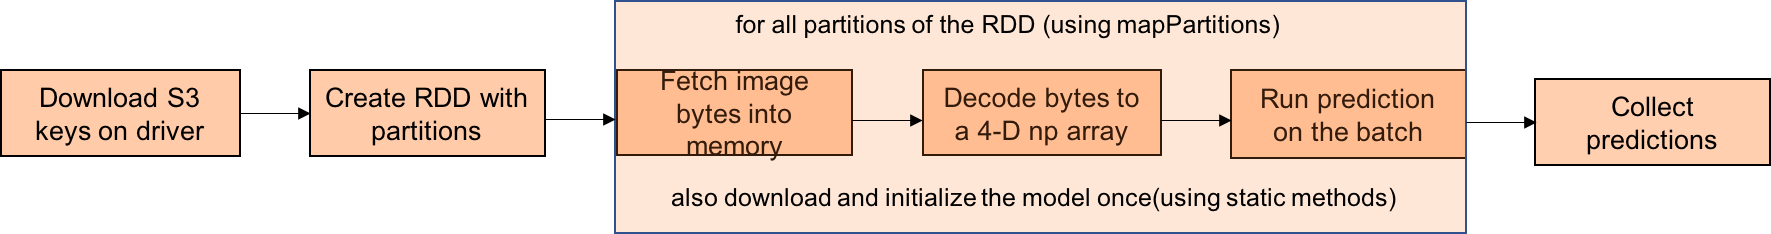
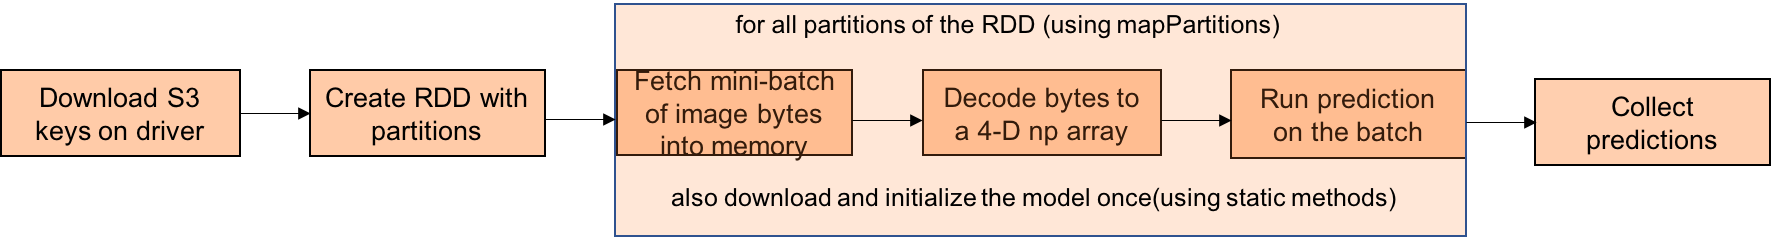
Update documentation (#5)

diff --git a/mxnet-spark/infer_main.py b/mxnet-spark/infer_main.py
@@ -93,16 +93,17 @@ def main():
 
     output = rdd.collect()
 
-    # drop the extra keys that we added to fill the last batch to be of args['batch']
+    # drop the extra keys that we added to fill the last batch
 
+    keys = keys[:n_keys]
     output = output[:n_keys]
 
     logger.info("predictions: {}".format(output))
 
     if args['output_s3_key'] and args['output_s3_bucket']:
         with open('/tmp/' + args['output_s3_key'] , 'w+') as f:
-            for each in output:
-                f.write("%s\n" % each)
+            for k, o in zip(keys, output):
+                f.write("Key %s: Prediction: %s\n" % (k, o))
         upload_file(args['output_s3_bucket'], args['output_s3_key'], '/tmp/' + args['output_s3_key'], s3_client)
 
 if __name__ == '__main__':

diff --git a/mxnet-spark/README.md b/mxnet-spark/README.md
@@ -1,15 +1,15 @@
-# Distributed Offline Inference using Apache MXNet and Apache Spark on Amazon EMR
+# Distributed Inference using Apache MXNet and Apache Spark on Amazon EMR
 
 In this article we will demonstrate how to run distributed offline inference on large datasets using [Aapche MXNet](http://mxnet.apache.org/) (incubating) and [Apache Spark](https://spark.apache.org/) on [Amazon EMR](https://aws.amazon.com/emr/) platform. We will explain how offline inference is useful, why it is challenging, and how you can leverage MXNet and Spark on Amazon EMR to overcome this challenge.
 
 ## Distributed Inference on Large Datasets - Need and Challenges
 
-Once a deep learning model has been trained, it is put to work by running inference on new data. Inference may be executed in real-time, for tasks that require immediate feedback such as fraud detection. This is typically known as online inference. Alternatively, inference may be executed offline, when a pre-computation is useful. A common use case for offline inference are services with low-latency requirements such as recommender systems. In these cases, recommendations are pre-computed using offline inference, results are stored in low latency storage, and on demand, recommendations are served from storage. 
+Once a deep learning model has been trained, it is put to work by running inference on new data. Inference may be executed in real-time, for tasks that require immediate feedback such as fraud detection. This is typically known as online inference. Alternatively, inference may be executed offline, when a pre-computation is useful. A common use case for offline inference are services with low-latency requirements such as recommender systems  that requires sorting and ranking many user-product scores. In these cases, recommendations  that requires sorting and ranking many user-product scoresare pre-computed using offline inference, results are stored in low latency storage, and on demand, recommendations are served from storage. 
 Backfilling historic data with predictions generated from state of the art models is another use case. As a hypothetical example, NY Times could use this setup to backfill archived photographs with person names predicated from a person detection model. Distributed inference can also be used for testing new models on historical data to verify if they yield better results before deploying to production.
 
 Typically, distributed inference is performed on large scale datasets spanning millions of records or more.
 Processing such massive datasets within a reasonable amount of time require a cluster of machines set up with deep learning capabilities.
-A distributed cluster enables high throughput processing via data partitioning and task parallelization. However, setting up a deep learning data processing cluster comes with challenges:
+A distributed cluster enables high throughput processing via data partitioning, batching and task parallelization. However, setting up a deep learning data processing cluster comes with challenges:
 * **Cluster Setup and Management**: Setting up and monitoring nodes, maintaining high availability, deploying and configuring software packages, and more.
 * **Resource and Job Management**: Scheduling and tracking jobs, partitioning data and handling job failures.
 * **Deep learning setup**: deploying, configuring and running deep learning tasks.
@@ -26,6 +26,7 @@ MXNet is a fast and scalable deep learning framework that is optimized for perfo
 We will walk through the steps to setup and execute offline distributed inference on a large dataset, using Spark and MXNet on Amazon EMR. We will use a pre-trained [ResNet-18](http://data.mxnet.io/models/imagenet/resnet/18-layers/) image recognition model, available on the MXNet [model zoo](http://data.mxnet.io/models/). We will run inference against the publicly available CIFAR-10 dataset that contains 60,000 color images. The example will demonstrate running inference on CPUs, but one can easily extended to use GPUs.
 
 The high level steps for the setup and execution are listed below, and laid out in detail in the following sections:
+
 * Setup MXNet and Spark on EMR.
 * Initialize Spark application.
 * Load and partition data on the cluster.
@@ -53,6 +54,7 @@ InstanceGroupType=CORE,InstanceCount=4,InstanceType=c4.8xlarge \
 --name "mxnet-spark-demo"
 ```
 Substitute the below arguments:
+
 * `<YOUR-KEYPAIR>` - Your EC2 Key Pair to ssh into the master.
 * `<YOUR-SUBNET-ID>` - Subnet in which to launch the cluster, you have to pass this argument to create high compute instances such c4.8xlarge
 * `<AWS-REGION>` - AWS region where you want to launch the cluster
@@ -60,7 +62,13 @@ Substitute the below arguments:
 
 `--bootstrap-actions` is used to install git, pillow, boto libraries.
 
-The code snippets that we discuss below are available in [deeplearning-emr](https://github.com/awslabs/deeplearning-emr) Github repository under the `mxnet-spark` folder. It contains the complete code for running inference using MXNet and Spark. We will also discuss how to submit spark application using `spark-submit` in one of the sub-sections.
+You can find more information about IAM roles needed to setup a EMR cluster [here](http://docs.aws.amazon.com/emr/latest/ManagementGuide/emr-iam-roles-creatingroles.html)
+
+The code snippets that we discuss below are available in [deeplearning-emr](https://github.com/awslabs/deeplearning-emr) Github repository under the `mxnet-spark` folder. It contains the complete code for running inference using MXNet and Spark. We will also discuss how to submit spark application using `spark-submit` in one of the sub-sections below. The `mxnet-spark` folder contains 3 files,  
+ 
+* [infer_main.py](https://github.com/awslabs/deeplearning-emr/mxnet-spark/infer_main.py) contains the code to run on the driver, 
+* [utils.py](https://github.com/awslabs/deeplearning-emr/mxnet-spark/utils.py) contains a few helper methods, and 
+* [mxinfer.py](https://github.com/awslabs/deeplearning-emr/mxnet-spark/mxinfer.py) contains the code to download the model files on the worker nodes, Load bytes into numpy and run prediction on a batch of images.
 
 ### Initialization.
 We will use [PySpark](https://spark.apache.org/docs/0.9.0/python-programming-guide.html) - Spark's Python interface, to create our application. A Spark application consists of a single **driver** program that runs the user's main function and one or more **executor** processes that run various tasks in parallel.
@@ -68,13 +76,14 @@ We will use [PySpark](https://spark.apache.org/docs/0.9.0/python-programming-gui
 To execute a Spark application, the driver splits up the work into jobs. Each job is further split into stages and each stage consists of a set of independent tasks that run in parallel. A task is the smallest unit of work in Spark and executes the same code, each on a different data partition - logical chunk of a large distributed data set.
 
 ![Spark Cluster](https://spark.apache.org/docs/latest/img/cluster-overview.png)
+
 **Image Credit:** [Apache Spark Docs](https://spark.apache.org/docs/latest/cluster-overview.html)
 
 Spark provides an abstraction to work with a distributed dataset - Resilient Distributed Dataset(RDD). RDD is an immutable distributed collection of objects partitioned across the cluster that can be operated on in parallel. RDDs can be created either by parallelizing a collection or an external dataset.
 
 The pipeline of our distributed inference application at a high level looks like:
 
-![Application Pipeline](resources/pipeline.png)
+![pipeline.png](resources/pipeline.png)
 
 Spark by default creates one task per core on the executor. Since MXNet has built-in parallelism to efficiently use all the CPU cores, we'll configure our application to create only one task per executor and let MXNet all the cores on the instance.
 In the below code we will set the configuration key `spark.executor.cores` to `1`, and pass the `conf` object when creating `SparkContext`. When submitting the application, you'll see that we also set the number of executors to the number of workers available on the cluster, there by forcing one executor per node instead of using the default setting for dynamic allocation of executors.
@@ -89,7 +98,7 @@ logger.info("Spark Context created")
 
 ### Load and partition data on the cluster.
 We have already copied CIFAR-10 data into a [Amazon S3](https://aws.amazon.com/s3/) bucket `mxnet-spark-demo`. Since the data stored in S3, can be accessed on all nodes we do not have to move data between the driver and executors. We will fetch only the S3 keys on the driver and create an RDD of keys using the [boto](http://boto.cloudhackers.com/en/latest/) library - Python interface to access AWS Services. 
-This RDD will be partitioned and distributed to the executors in the cluster and we will fetch and process the images directly on the executors.
+This RDD will be partitioned and distributed to the executors in the cluster and we will fetch and process the mini-batch of images directly on the executors.
 
 We will use the helper method ```fetch_s3_keys``` from [utils.py](https://github.com/awslabs/deeplearning-emr/mxnet-spark/utils.py) to get all the keys from an S3 bucket, this method also takes a prefix to list keys that start with that prefix. The arguments are passed when you submit the main application.
 
@@ -98,9 +107,9 @@ s3_client = get_s3client(args['access_key'], args['secret_key'])
 keys = fetch_s3_keys(args['bucket'], args['prefix'], s3_client)
 ```
 
-The batch size as determined by `args['batch']` is the number of images that can be fetched, preprocessed and run inference on each executor at once. This is bound by how much memory is available for each task. `args['access_key']` and  `args['secret_key']` are optional arguments to access the S3 bucket in another account if Instance Role is setup with the right permissions the script will  automatically use the IAM role.
+The batch size as determined by `args['batch']` is the number of images that can be fetched, preprocessed and run inference on each executor at once. This is bound by how much memory is available for each task. `args['access_key']` and  `args['secret_key']` are optional arguments to access the S3 bucket in another account if Instance Role is setup with the right permissions the script will  automatically use the IAM role that was assigned to the cluster at launch.
 
-We will split the RDD of `keys` into partitions with each partition containing a batch of image keys. If the keys cannot be perfectly divided into partitions of batch size, we will fill the last partition to reuse some of the initial set of keys. This is needed since we will be binding(see below) to a fixed batch size.
+We will split the RDD of `keys` into partitions with each partition containing a mini-batch of image keys. If the keys cannot be perfectly divided into partitions of batch size, we will fill the last partition to reuse some of the initial set of keys. This is needed since we will be binding(see below) to a fixed batch size.
 
 
 ```Python
@@ -180,7 +189,7 @@ def readImage(img_bytes):
 ### Inference using MXNet on the Executors
 As stated above we will be running one executor per node and one task per executor for this application. 
 
-Before running inference, we have to load the model files.The `MXModel` class in [mxinfer.py](https://github.com/awslabs/deeplearning-emr/mxnet-spark/mxinfer.py) downloads the model files and creates a MXNet Module and stores in the `MXModel` class at first use. We implemented a singleton pattern so that we do not have to instantiate and load the model for every preidiction.
+Before running inference, we have to load the model files.The `MXModel` class in [mxinfer.py](https://github.com/awslabs/deeplearning-emr/mxnet-spark/mxinfer.py) downloads the model files from MXNet model zoo and creates a MXNet Module and stores in the `MXModel` class at first use. We implemented a singleton pattern so that we do not have to instantiate and load the model for every preidiction.
 
 The  `download_model_files` method in the MXModel singleton class will download the ResNet-18 model files. The model consists of a Symbol file with .json extension that describes the neural network graph and a binary file with .params extension containing the model parameters. For classification models, there will be a synsets.txt containing the classes and their corresponding labels.
 
@@ -222,7 +231,7 @@ After downloading the model files, we will load them and instantiate MXNet modul
         return mod
 ```
 
-We will download and instantiate MXModel object once on the first call to the predict method. The predict transformation method also takes a 4-dimensional array holding a batch (of size `args['batch']`) of images and calls the MXNet module `forward` method to produce the predictions for that batch of images. 
+We will download and instantiate MXModel object once on the first call to the predict method. The predict transformation method also takes a 4-dimensional array holding a batch (of size `args['batch']`) of color images (the other 3 dimensions of RGB) and calls the MXNet module `forward` method to produce the predictions for that batch of images. 
 
 *Note that we are importing the `mxnet` and `numpy` modules within this method for the reasons discussed in the note earlier.*
 ```Python
@@ -247,11 +256,7 @@ def predict(img_batch, args):
 git clone https://github.com/awslabs/deeplearning-emr.git && cd deeplearning-emr/mxnet-spark
 ```
 
-We will use the ```spark-submit``` script to run our Spark Application. The mxnet-spark folder contains 3 files,  
- 
-* [infer_main.py](https://github.com/awslabs/deeplearning-emr/mxnet-spark/infer_main.py) which contains the code to run on the driver, 
-* [utils.py](https://github.com/awslabs/deeplearning-emr/mxnet-spark/utils.py) contains a few helper methods, and 
-* [mxinfer.py](https://github.com/awslabs/deeplearning-emr/mxnet-spark/mxinfer.py) contains the code to download the model files on the worker nodes, Load bytes into numpy and run prediction on a batch of images.
+We will use the ```spark-submit``` script to run our Spark Application. 
 
 ```bash
 export LD_PATH=$LD_LIBRARY_PATH ; spark-submit --deploy-mode cluster \
@@ -288,12 +293,14 @@ Finally, we will collect the predictions generated for each partition using Spar
 
 ```Python
     output = rdd.collect()
-    # drop the extra keys that we added to fill the last batch to be of args['batch']
+    # drop the extra keys that we added to fill the last batch
+    keys = keys[:n_keys]
     output = output[:n_keys]
-    if args['output_s3_key']:
+  
+    if args['output_s3_key'] and args['output_s3_bucket']:
         with open('/tmp/' + args['output_s3_key'] , 'w+') as f:
-            for each in output:
-                f.write("%s\n" % each)
+            for k, o in zip(keys, output):
+                f.write("Key %s: Prediction: %s\n" % (k, o))
         upload_file(args['output_s3_bucket'], args['output_s3_key'], '/tmp/' + args['output_s3_key'], s3_client)
 ```
 
@@ -303,7 +310,7 @@ Finally, we will collect the predictions generated for each partition using Spar
  
  The below screenshot from the EMR console Applicaiton History shows the application tasks, execution times, etc., 
  
-![Application Status](resources/application-history.png)
+![application-history.png](resources/application-history.png)
 
 Spark Applications running on EMR can also be monitored using the Yarn ResourceManager Web UI on port 8088 on the driver host. The various Web UIs available on the EMR cluster and how to access them are listed here [YARN Web UI on EMR](https://docs.aws.amazon.com/emr/latest/ManagementGuide/emr-web-interfaces.html).
 
@@ -314,7 +321,7 @@ A screenshot of the web monitoring tool is shown below. We can see the execution
 
 Another great feature of Amazon EMR is the integration with [Amazon CloudWatch](https://aws.amazon.com/cloudwatch/), which allows monitoring of cluster resources and applications. In the screenshot below we can see the CPU utilization across the cluster nodes, which stayed below 25%.
 
-![CPU Utilization](resources/cpu-utilization.png)
+![CPU Utilization.png](resources/cpu-utilization.png)
 
 ## Summary
 To summarize, we demonstrated setting up a Spark cluster of 4 nodes, that uses MXNet to run distributed inference across 10000 images stored on S3, completing the processing within 5(4.4) minutes.
@@ -341,3 +348,11 @@ I would like to thank my colleagues at [Amazon AI](https://aws.amazon.com/amazon
 * Madan Jampani - Principal Engineer, Amazon AI.
 * Hagay Lupesko - Software Development Manager, Amazon AI.
 * Roshani Nagmote - Sofware Engineer, Amazon AI.
+
+```sequence
+
+```
+
+```sequence
+
+```
